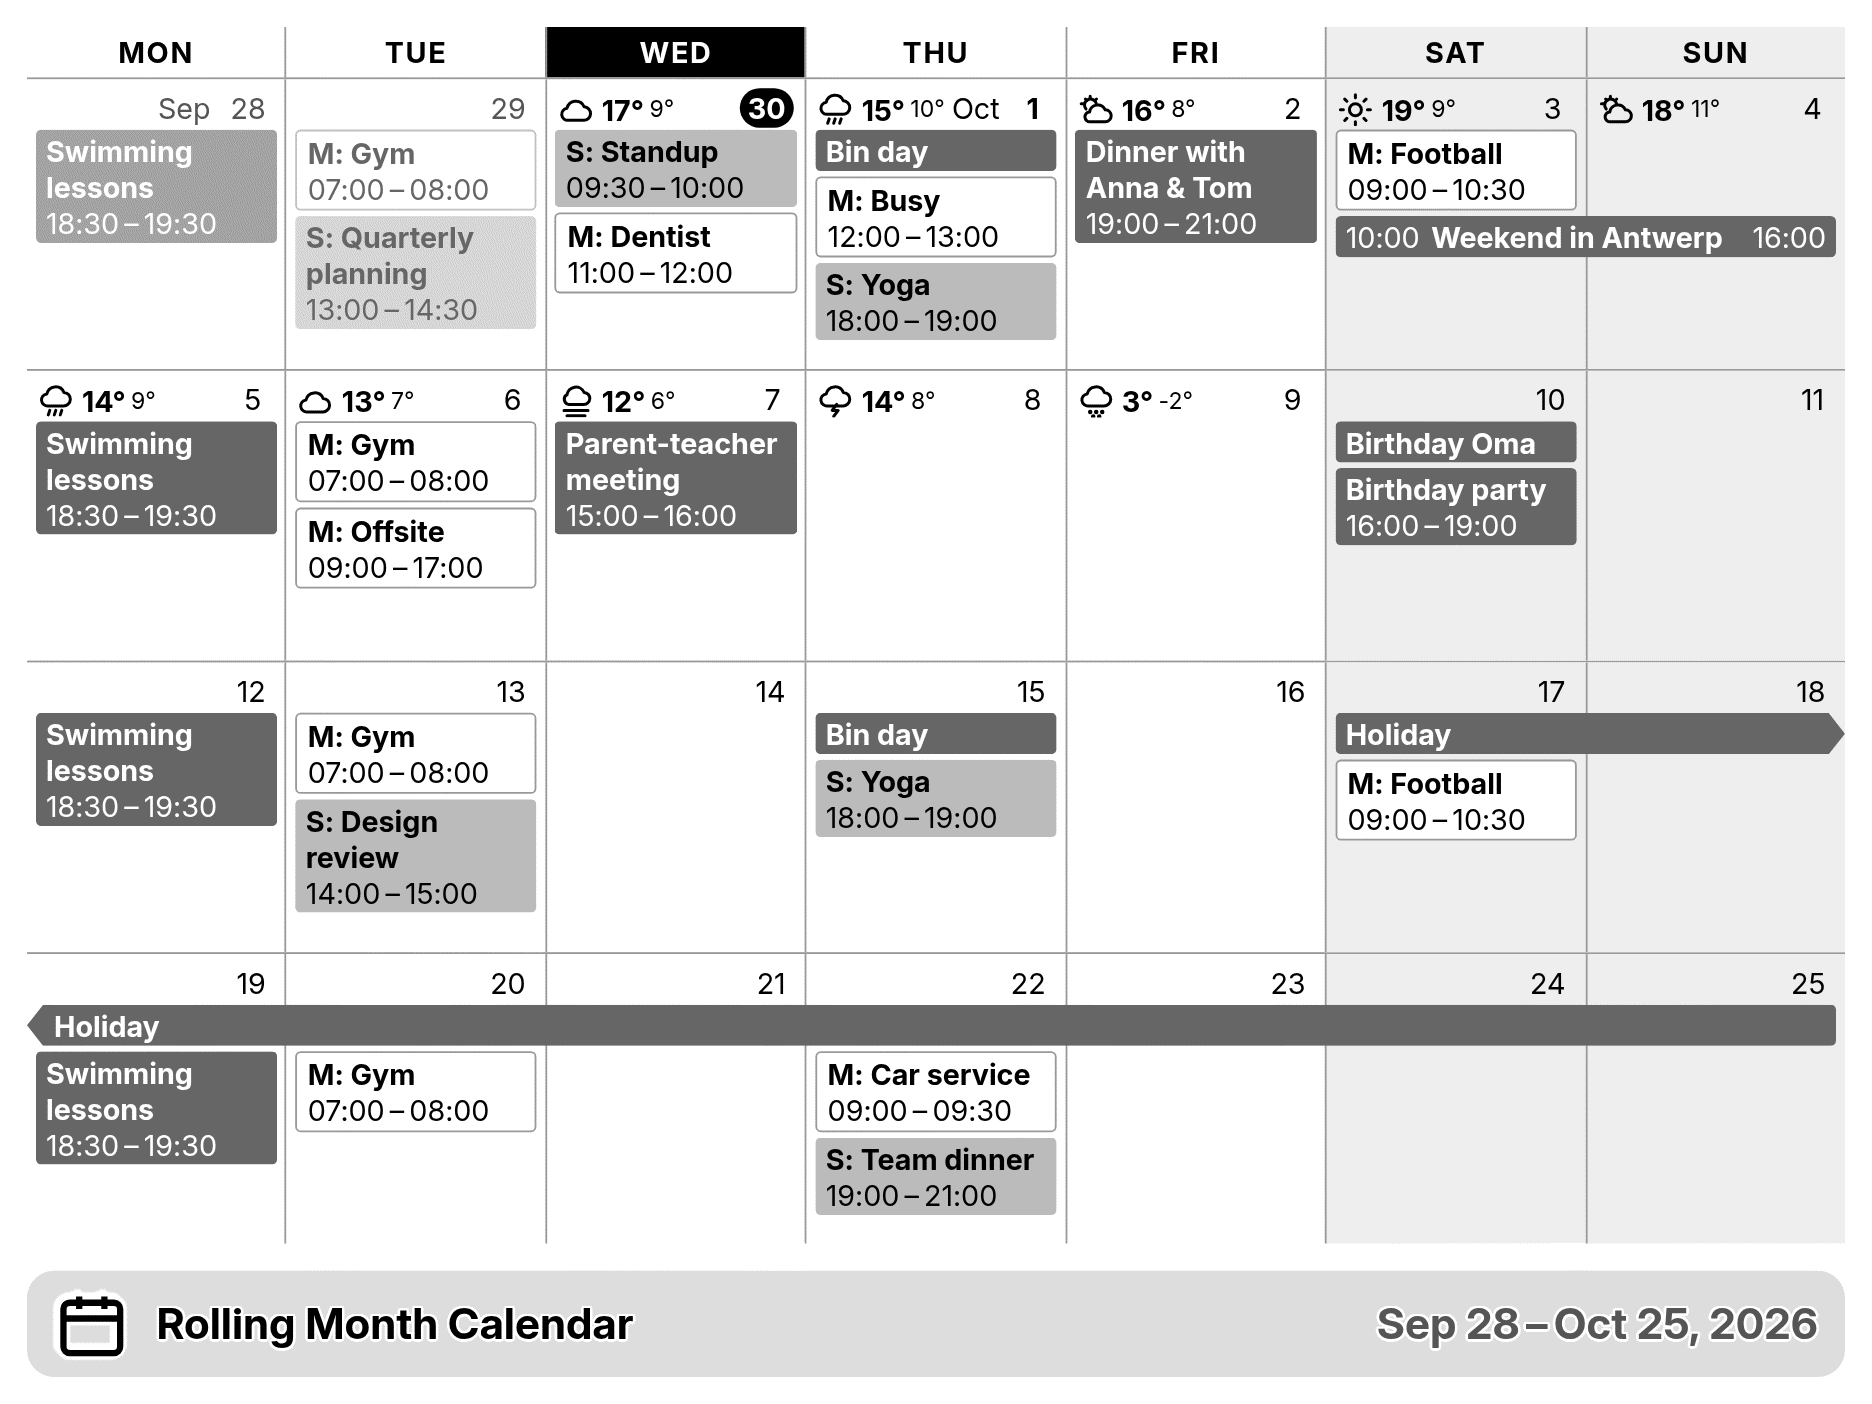
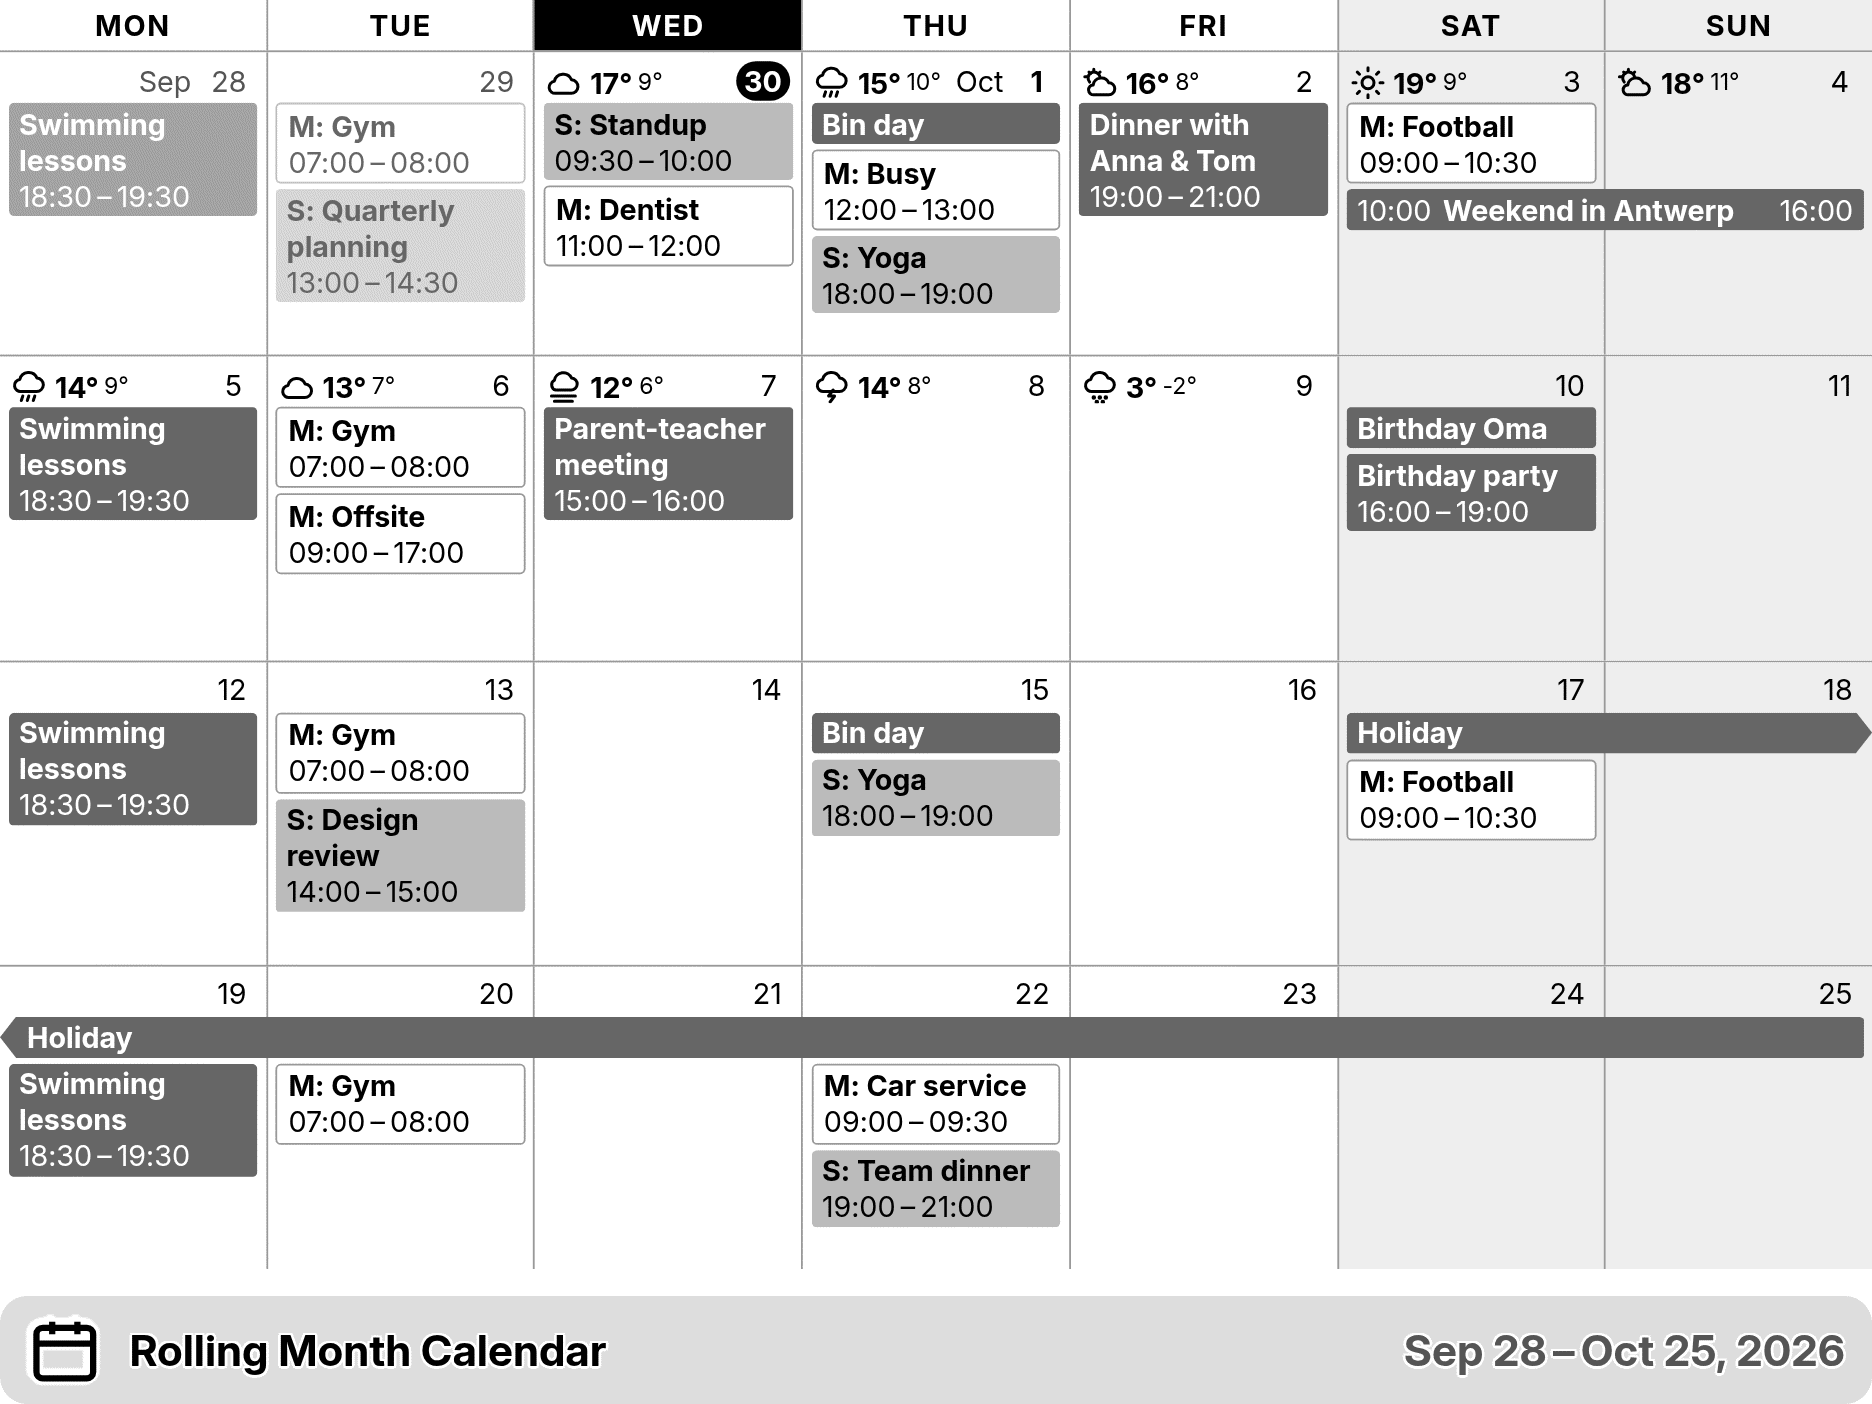
Remove the screen padding in the LaraPaper recipe too
Every recipe now sets no_screen_padding: 'yes', as the TRMNL.com
variants did, and render.mjs adds screen--no-bleed from it (instead of
a --no-bleed flag). LaraPaper's importer ignores the key, so the README
tells LaraPaper users to tick "Remove bleed margin?".

Without padding, two things showed up with the title bar on:
- Framework 3.3.1 makes a no-bleed full layout the whole screen high
  even with a title bar after it; shared.liquid leaves the bar room.
- Fewer weeks share the height differently, so after cutting weeks the
  last one could still overrun; the fitting now counts again after each
  re-render until the weeks fit.

README images regenerated.

Claude-Session: https://claude.ai/code/session_019KzVdc2fSRfYwfPhBR3TVL

diff --git a/CLAUDE.md b/CLAUDE.md
@@ -77,6 +77,8 @@ this; previews without the framework loaded are misleading (no fonts → Times N
 Roman, wrong sizes). TRMNL.com renders the X at the scale its owner picked (regular,
 `--ui-scale: 1`, by default; `render.mjs --scale regular`), so the calendar's text size
 doesn't follow `--ui-scale` (see the `--font-small-font-size` override in `shared.liquid`).
+Every recipe sets `no_screen_padding: 'yes'` (`screen--no-bleed`, which `render.mjs` adds);
+LaraPaper's importer ignores it, so there the user ticks "Remove bleed margin?".
 
 **FullCalendar under the transform.** FullCalendar 7 sizes the grid from ResizeObserver
 border boxes, which ignore the transform, so it lays out correctly without help. (v6

diff --git a/README.md b/README.md
@@ -182,6 +182,10 @@ With the Home Assistant app you can also fill in **Home Assistant weather entity
 `weather.forecast_home`, for each day's forecast next to its day number (see
 [Weather](#weather)).
 
+Under **Screen Settings**, tick **Remove bleed margin?**: the calendar is made to run to
+the screen's edges, as it does on TRMNL.com (LaraPaper doesn't take that from the recipe
+when installing it).
+
 Add the recipe to the device's playlist (**Add to Playlist** on the recipe page).
 
 **Updating:** installing from the catalog again adds a second copy. To update in place
